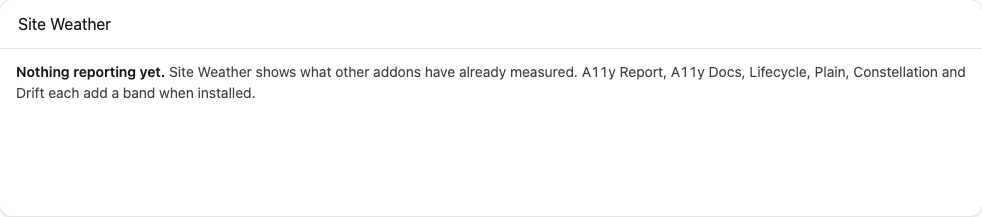
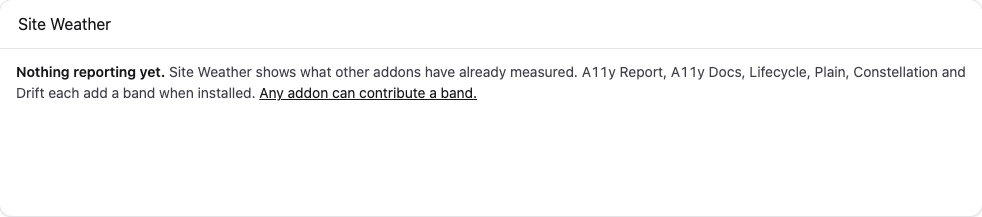
Phase 4.1: README, CHANGELOG, MIT licence, empty-state link
README: what it is and never does, installing, what you see, unknown as
a real answer, the empty state, the bands, and "Writing a contributor"
with a worked example, the tag snippet and the six rules. Screenshots
are the real-dashboard captures. CHANGELOG names the contract as the
public API. LICENSE is MIT.

The empty state now links to the contributor section, as SPEC §8 asks;
re-captured and re-audited clean in both schemes.

Claude-Session: https://claude.ai/code/session_017AX2wNxSzFzk73v9DfwDcG

Changed region(s): [[0.2444, 0.4147, 0.4888, 0.47]]

diff --git a/resources/views/widget.blade.php b/resources/views/widget.blade.php
@@ -15,6 +15,7 @@
             <p class="site-weather-empty text-gray-700 dark:text-gray-300">
                 <strong class="font-semibold text-gray-900 dark:text-gray-100">Nothing reporting yet.</strong>
                 Site Weather shows what other addons have already measured. A11y Report, A11y Docs, Lifecycle, Plain, Constellation and Drift each add a band when installed.
+                <a href="https://github.com/bpmore/statamic-site-weather#writing-a-contributor" class="rounded-sm underline text-gray-900 dark:text-gray-100">Any addon can contribute a band.</a>
             </p>
         @else
             @php($overall = $forecast->overall())

diff --git a/tests/Feature/WidgetTest.php b/tests/Feature/WidgetTest.php
@@ -38,6 +38,7 @@ it('shows the empty state, and never says sunny, when nothing reports', function
 
     expect($html)->toContain('Nothing reporting yet.')
         ->and($html)->toContain('each add a band when installed')
+        ->and($html)->toContain('<a href="https://github.com/bpmore/statamic-site-weather#writing-a-contributor"')
         ->and($html)->not->toContain('Overall:')
         ->and($html)->not->toContain('Clear')
         ->and($html)->not->toContain('<ul');

diff --git a/README.md b/README.md
@@ -1,0 +1,188 @@
+# Site Weather
+
+**One dashboard tile that shows your site's health as weather.** Clear, fair,
+overcast, rain, storm. Click a band, go to the addon that measured it.
+
+![The Site Weather tile on the Statamic dashboard: overall storm, with six bands](docs/screenshots/widget-light.png)
+
+**Site Weather never computes anything.** It has no scanner, no crawler and no
+checks. It reads what other addons have already stored and renders it, which is
+what keeps it free, tiny, and honest: if nothing is measuring a thing, the tile
+does not pretend to know about it.
+
+Free. Statamic 6, PHP 8.2.
+
+## Installing
+
+```
+composer require bpmore/statamic-site-weather
+```
+
+Then put the widget on the dashboard in `config/statamic/cp.php`:
+
+```php
+'widgets' => [
+    ['type' => 'site_weather', 'width' => 100],
+],
+```
+
+There is nothing else to configure. No thresholds, no history, no
+notifications: each addon that reports a band decides for itself what counts
+as a storm, because it knows its own data better than a generic rule would.
+
+## What you see
+
+Each installed addon that reports supplies one **band**. The tile shows:
+
+- the **overall** state, which is the *worst* band, not the average — one storm
+  is a storm, and averaging would hide exactly what the tile exists to surface;
+- the worst band's one-line **headline**, in plain words ("412 open issues");
+- a strip of every band with its state, each linking to that addon's own
+  dashboard.
+
+Every state has a distinct icon shape *and* a word, never a colour alone. The
+whole tile is one sentence for a screen reader before it is anything else:
+
+> Overall: storm. Accessibility: storm, 412 open issues. Freshness: fair.
+> Readability: unknown.
+
+Nothing animates. A raining tile is charming once and irritating forever.
+
+### Unknown is a real answer
+
+An addon that is installed but has never run reports **unknown**, not clear.
+The tile never implies health that nobody has measured. Unknown bands are
+listed by name so the gap is visible, and they are never ranked against
+measured ones — unknown is neither better nor worse than clear, it is absent.
+
+### The empty state
+
+With no contributors installed the tile says so:
+
+![The tile with nothing reporting: "Nothing reporting yet."](docs/screenshots/empty-light.png)
+
+It does not say "sunny". It says nothing is reporting yet, and names what
+could.
+
+## Bands
+
+| Band | Reported by | Reads |
+|---|---|---|
+| Accessibility | A11y Report | open issues by impact |
+| Documents | A11y Docs | failing documents, proportion of library |
+| Freshness | Lifecycle | overdue percentage |
+| Readability | Plain | proportion above target grade |
+| Structure | Constellation | orphan count |
+| Translations | Drift | localizations behind |
+
+Missing addon, missing band — never a fake or zeroed one. Any addon can add a
+band; see below.
+
+## Writing a contributor
+
+A contributor is one small class in the addon that owns the data. Site Weather
+never imports it; it finds it through the container.
+
+```php
+use Bpmore\SiteWeather\Contracts\WeatherContributor;
+use Bpmore\SiteWeather\Reading;
+use Bpmore\SiteWeather\State;
+
+class A11yWeatherContributor implements WeatherContributor
+{
+    public function __construct(private IssueRepository $issues) {}
+
+    public function key(): string
+    {
+        return 'accessibility';
+    }
+
+    public function label(): string
+    {
+        return 'Accessibility';
+    }
+
+    public function reading(): Reading
+    {
+        $scan = $this->issues->latestScan();
+
+        if ($scan === null) {
+            return Reading::unknown('Run your first scan', cp_route('a11y-report.index'));
+        }
+
+        $state = match (true) {
+            $scan->critical > 0 => State::Storm,
+            $scan->serious > 0 => State::Rain,
+            $scan->moderate > 0 => State::Overcast,
+            $scan->minor > 0 => State::Fair,
+            default => State::Clear,
+        };
+
+        return new Reading(
+            state: $state,
+            headline: "{$scan->open} open issues",
+            url: cp_route('a11y-report.index'),
+            computedAt: $scan->finishedAt,
+        );
+    }
+}
+```
+
+Register it from your service provider by **tagging the class name**:
+
+```php
+$this->app->tag(A11yWeatherContributor::class, 'site-weather.contributors');
+```
+
+That is the whole integration, and it is deliberately just a string. Tagging a
+class name never instantiates it, so if Site Weather is not installed nothing
+resolves the tag, your class is never autoloaded, and the missing interface is
+never noticed. Your addon needs no dependency on this one — list it under
+`suggest` for your users and under `require-dev` so your own tests and static
+analysis can see the interface.
+
+### The rules
+
+1. **`reading()` reads. It never computes.** Return what your addon has already
+   stored — the last scan's result, a cached count. It runs on every dashboard
+   load for every control-panel user, and Site Weather cannot enforce this: a
+   contributor that scans on request makes the dashboard slow for everyone.
+2. **Nothing measured yet? Return `Reading::unknown()`.** Never report clear for
+   a site you have not looked at. Give the unknown reading a headline that says
+   what to do ("Run your first scan") and a URL that goes there.
+3. **A measured state needs a `computedAt`.** The `Reading` constructor refuses
+   a clear/fair/overcast/rain/storm reading with no date, because a claim about
+   the site with no moment attached is not one the tile will show.
+4. **`key()` is a short, stable slug**, unique across addons. The first
+   contributor registered for a key wins; a duplicate is logged and ignored.
+5. **`url` is your addon's own dashboard** — the place a person lands when they
+   click your band and want the detail.
+6. **Thresholds are yours.** What makes accessibility a storm rather than rain
+   is your call; Site Weather has no opinion and no configuration for it.
+
+If `reading()` throws, the exception is logged and your band reads unknown with
+the headline "Failed to report". The other bands render. The dashboard never
+breaks because of a band.
+
+### Trying it without a real contributor
+
+For a dev site, a service provider that tags a few anonymous classes is enough
+to see the tile populated. `Reading` and `State` are plain values; there is
+nothing to mock.
+
+## Accessibility of the tile itself
+
+This would be an embarrassing place to fail, so the widget is audited with
+axe against the real dashboard, populated and empty, in both colour schemes.
+The record is in [`docs/audit/`](docs/audit/). Icons are decorative and always
+sit beside text; every state's colour clears 3:1 on both the light and dark
+card; keyboard focus on band links is visible; nothing moves.
+
+## Requirements
+
+- Statamic `^6.0`
+- PHP `^8.2`
+
+## Licence
+
+MIT. See [LICENSE.md](LICENSE.md).

diff --git a/PROGRESS.md b/PROGRESS.md
@@ -30,7 +30,7 @@
 - [x] **3.3 Audit the widget itself.** Run axe against the host site's dashboard with the widget populated by fakes and with the empty state; fix every finding; confirm nothing moves with `prefers-reduced-motion` unset (there is no animation to reduce). Record the axe result under Notes — this is the product line's own discipline applied to itself.
 
 ## Phase 4 — Ship
-- [ ] **4.1 README.** What it is, what it never does (compute), the honest empty state, and "Writing a contributor": the interface, the tag snippet for a service provider, the read-don't-compute rule, when to return `unknown`, and that the band's `url` should be the product's own dashboard. Screenshots of a full strip and the empty state. `CHANGELOG.md`, `LICENSE.md` (MIT — it is free).
+- [x] **4.1 README.** What it is, what it never does (compute), the honest empty state, and "Writing a contributor": the interface, the tag snippet for a service provider, the read-don't-compute rule, when to return `unknown`, and that the band's `url` should be the product's own dashboard. Screenshots of a full strip and the empty state. `CHANGELOG.md`, `LICENSE.md` (MIT — it is free).
 - [ ] **4.2 Scale check.** Site Weather does no work that scales with entries. Prove the failure modes that do exist: register 20 fake contributors including one that throws and one that is slow; confirm the dashboard renders, the bad band reads unknown, and total time is the sum of contributors — nothing added by the widget. Record timings under Notes.
 - [ ] **4.3 Listing copy and tag 1.0.** `LISTING.md` with marketplace copy (free; the funnel framing stays internal — the listing describes what the user sees). `git tag v1.0.0` locally (push is a human step).
 
@@ -103,3 +103,9 @@
 - Real dark card colour is `oklch(0.236 0.006 286.015)`, the lightness assumed in 3.2; contrast figures stand.
 - Evidence kept in-repo: `docs/screenshots/` (widget light/dark, empty, focus — real dashboard renders, ready for the README) and `docs/audit/` (axe results JSON and the script, with a header saying what it needs).
 - The dev site gained `app/Providers/SiteWeatherDemoProvider.php` (six sample bands via anonymous classes; `?weather-empty=1` shows the empty state). Kept on purpose — it is how the tile is seen populated while developing — and it is also a working example of the contract from a host app. Delete when real contributors land. Phase 3 is complete.
+
+**2026-09-11 — Phase 4.1 (README, CHANGELOG, LICENSE).**
+- README leads with the tile and the "never computes" rule, then installing, what you see, unknown, the empty state, the bands table, and "Writing a contributor" with a full example class, the tag snippet, and six numbered rules (read-don't-compute, unknown when unmeasured, dated measured readings, stable unique key, url = your dashboard, thresholds are yours). Screenshots are the real-dashboard captures from 3.3.
+- The empty state now links to the README's contributor section — the "link to what could" from SPEC §8. Link text is a full sentence ("Any addon can contribute a band.") so it reads on its own. Re-captured and re-audited on the real dashboard in both schemes: zero violations, `link-in-text-block` passing, reachable by Tab. Temporary login route added and removed again; `routes/web.php` restored, URL 404s.
+- `CHANGELOG.md` states the versioning promise: the contract (`WeatherContributor`, `Reading`, `State`, the tag) is the public API and breaking it is a major. `LICENSE.md` is MIT, matching `composer.json`.
+- The README's `github.com/bpmore/statamic-site-weather` links assume the repo is published there (the `homepage` in `composer.json`). There is no remote yet.

diff --git a/LICENSE.md b/LICENSE.md
@@ -1,0 +1,23 @@
+# Licence
+
+MIT License
+
+Copyright (c) 2026 Brent Passmore
+
+Permission is hereby granted, free of charge, to any person obtaining a copy
+of this software and associated documentation files (the "Software"), to deal
+in the Software without restriction, including without limitation the rights
+to use, copy, modify, merge, publish, distribute, sublicense, and/or sell
+copies of the Software, and to permit persons to whom the Software is
+furnished to do so, subject to the following conditions:
+
+The above copyright notice and this permission notice shall be included in all
+copies or substantial portions of the Software.
+
+THE SOFTWARE IS PROVIDED "AS IS", WITHOUT WARRANTY OF ANY KIND, EXPRESS OR
+IMPLIED, INCLUDING BUT NOT LIMITED TO THE WARRANTIES OF MERCHANTABILITY,
+FITNESS FOR A PARTICULAR PURPOSE AND NONINFRINGEMENT. IN NO EVENT SHALL THE
+AUTHORS OR COPYRIGHT HOLDERS BE LIABLE FOR ANY CLAIM, DAMAGES OR OTHER
+LIABILITY, WHETHER IN AN ACTION OF CONTRACT, TORT OR OTHERWISE, ARISING FROM,
+OUT OF OR IN CONNECTION WITH THE SOFTWARE OR THE USE OR OTHER DEALINGS IN THE
+SOFTWARE.

diff --git a/CHANGELOG.md b/CHANGELOG.md
@@ -1,0 +1,20 @@
+# Changelog
+
+What changed in each release, and what you have to do about it.
+
+Versions are `MAJOR.MINOR.PATCH`. The contributor contract —
+`WeatherContributor`, `Reading`, `State` and the `site-weather.contributors`
+tag — is the public API; a breaking change to any of it is a major version.
+
+## Unreleased
+
+First release.
+
+- The `WeatherContributor` contract, discovered through the
+  `site-weather.contributors` container tag.
+- `Reading` (state, headline, url, computed_at) and the six-state `State` enum.
+- Worst-wins aggregation; unknown is a first-class state; an empty tile never
+  says sunny.
+- The dashboard widget: Blade, static, with a distinct icon shape and a word
+  for every state and a one-sentence screen-reader summary. Audited with axe on
+  the real dashboard in both colour schemes: no violations.
